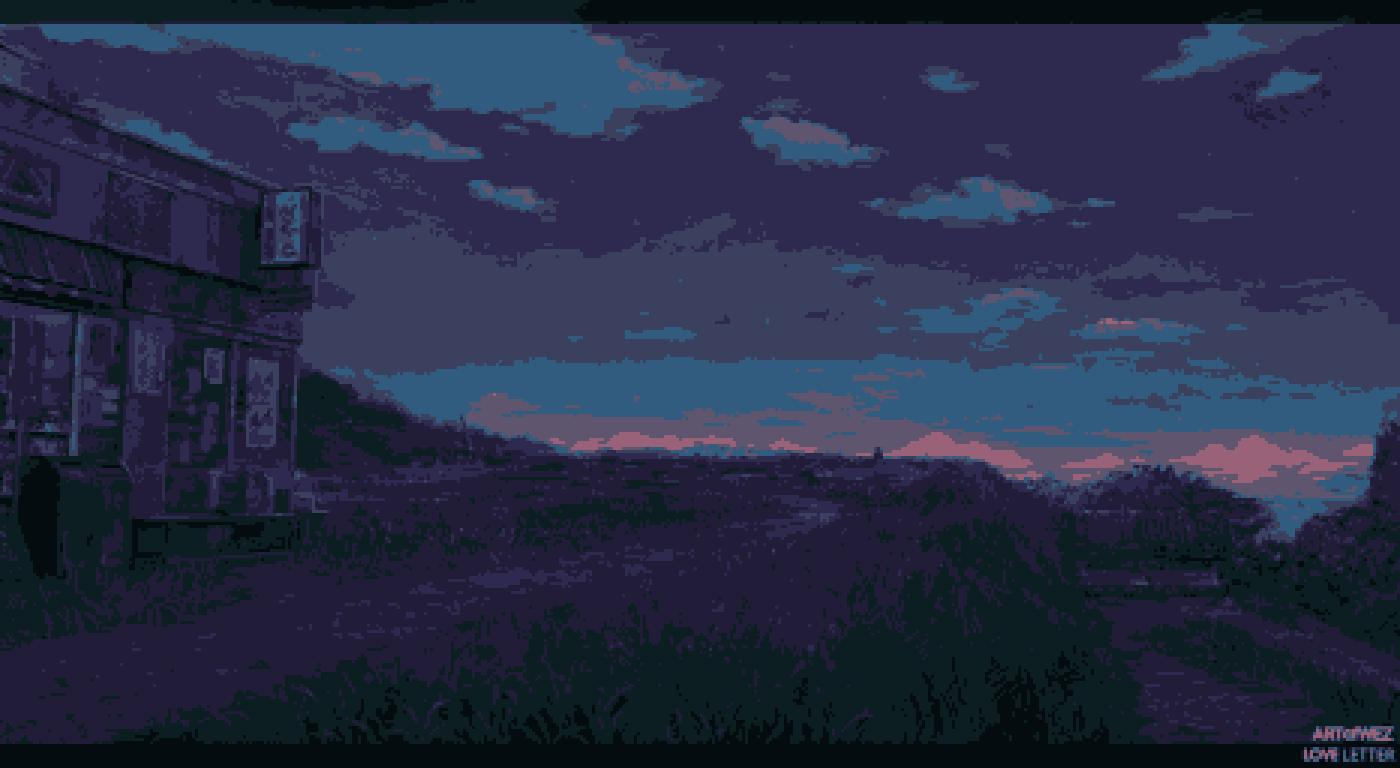
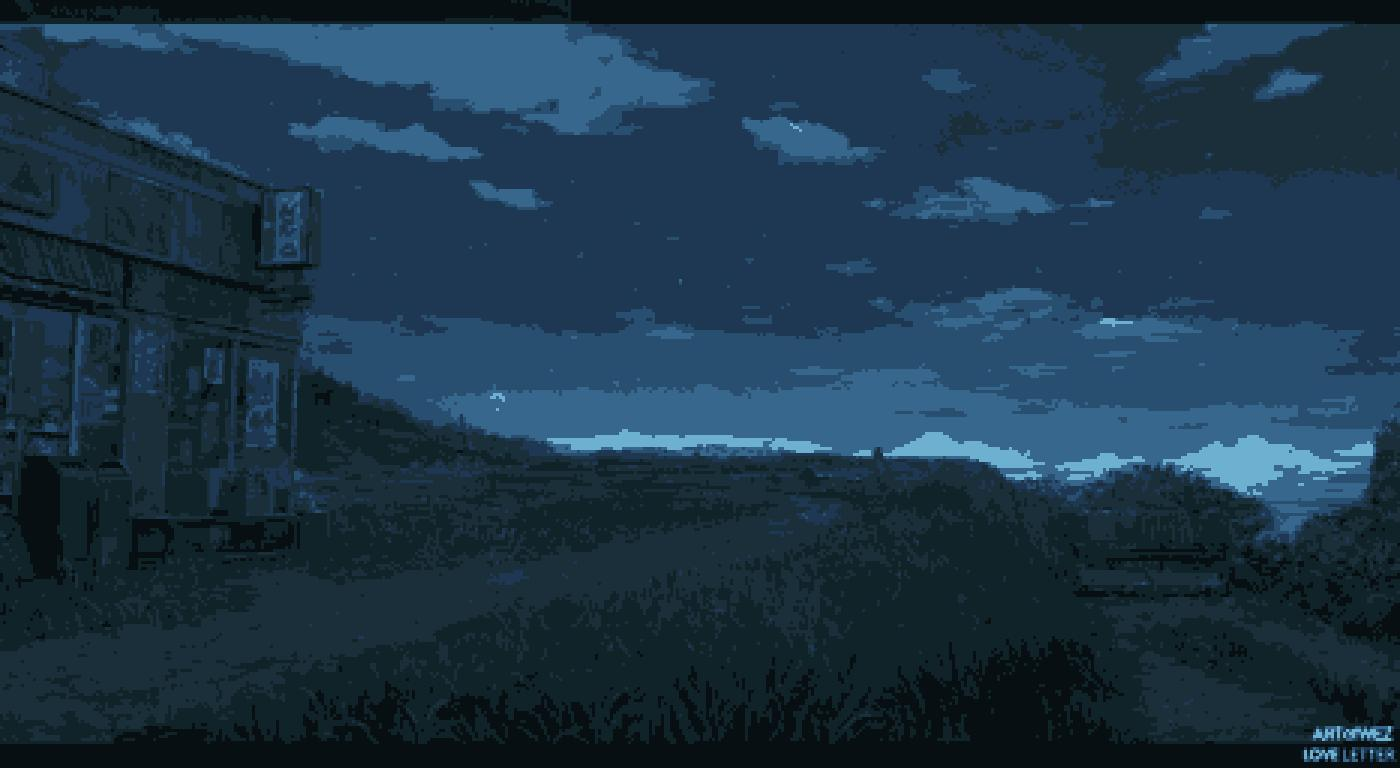
fix

diff --git a/pixel_art_genertor.py b/pixel_art_genertor.py
@@ -53,10 +53,8 @@ class PixelArtGenerator:
         try:
             cluster_centers = self.compareClusterCenterWithPallete(
                 cluster_centers, self.palette)
-
         except:
             pass
-
         for cluster_center in range(len(cluster_centers)):
             zeros[labels == cluster_center] = cluster_centers[cluster_center]
         zeros = np.reshape(zeros, np.array(self.resultImage).shape)
@@ -94,15 +92,16 @@ class PixelArtGenerator:
         zeros_reshaped = sorted(zeros_reshaped)
         print('cluster', cluster_center)
         print('palette', palette)
-        check = []
+        check1 = []
+        check2 = []
         pairs = []
         for el in zeros_reshaped:
             temp = zip(*np.where(zeros == el))
             for t in temp:
-                if t[0] not in check:
-                    if t[1] not in check:
-                        check.append(t[0])
-                        check.append(t[1])
+                if t[0] not in check1:
+                    if t[1] not in check2:
+                        check1.append(t[0])
+                        check2.append(t[1])
                         pairs.append(t)
         print('pair', pairs)
         for pair in pairs:

diff --git a/main.py b/main.py
@@ -3,7 +3,7 @@ from PIL import Image
 
 
 palette = 'ghost-town.txt'
-image = 'garden.jpg'
+image = 'garden2.jpg'
 
 img = Image.open(image)
 img = pixel_art_genertor.PixelArtGenerator(img)
@@ -12,4 +12,4 @@ img.pixelate(height=256)
 img.clustering()
 img.resize_to_original()
 img.show()
-img.save(image + '-pixelNoPalette.jpg')
+img.save(image + '-pixel.jpg')
